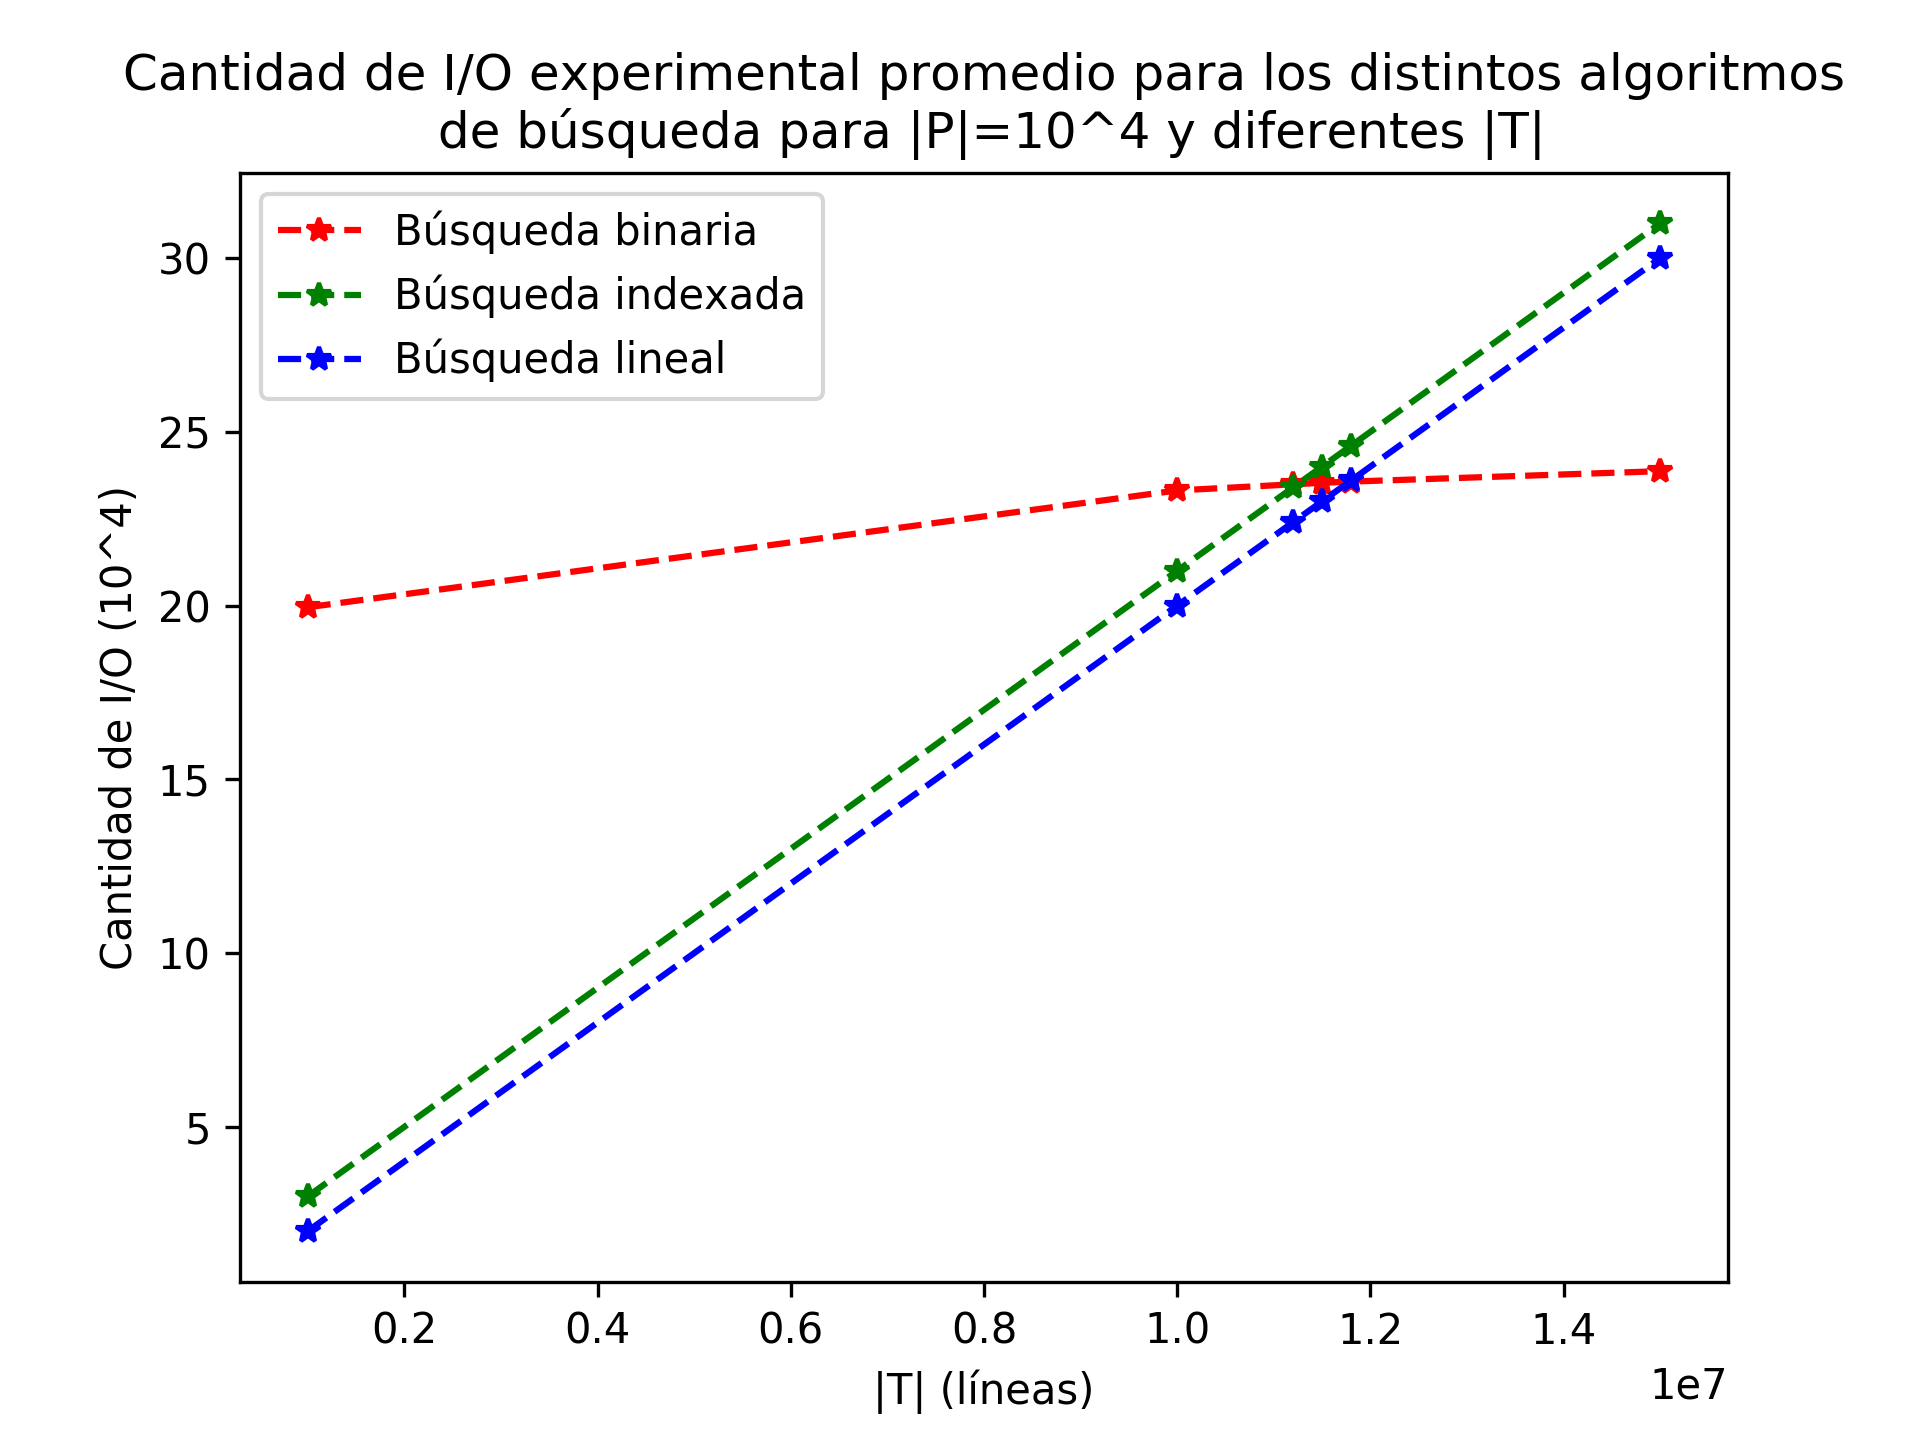
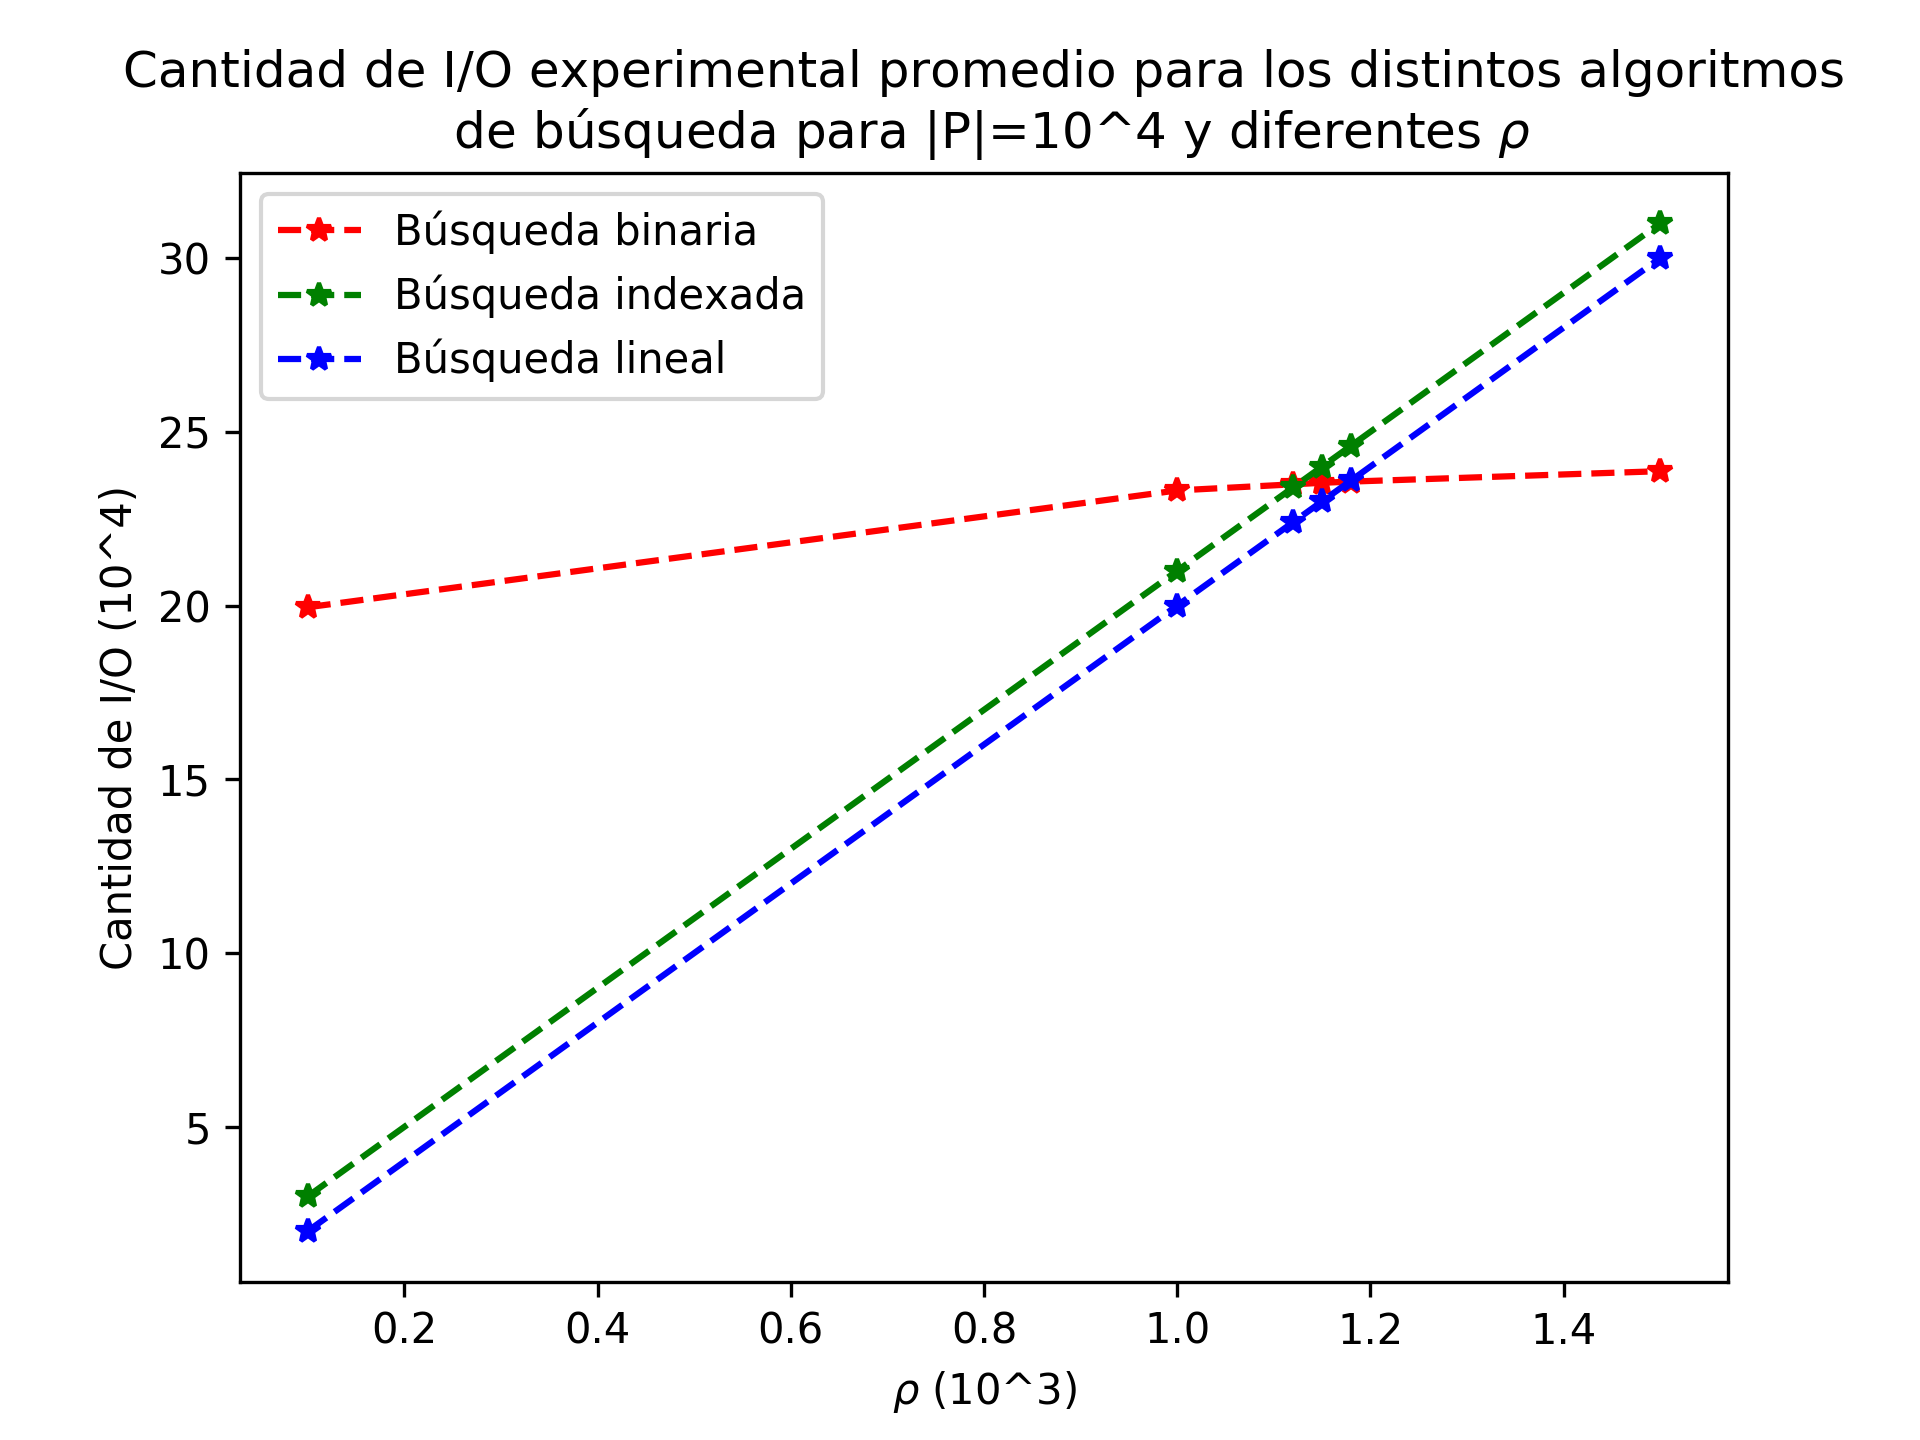
read pro

diff --git a/T1/experimentation/manage_theory_vs_real.py b/T1/experimentation/manage_theory_vs_real.py
@@ -98,23 +98,29 @@ for t in T_SIZE:
     y_linear_plus_merge_t.append(statistics.mean(current_linear_plus_merge_t))
     y_linear_plus_merge_t_std.append(statistics.stdev(current_linear_plus_merge_t))
 
-teo_range = range(T_SIZE[0], T_SIZE[len(T_SIZE) - 1])
+rho_list = []
+for t in T_SIZE:
+    rho_list.append(t//10**4 / 1000)
 
+teo_range = range(T_SIZE[0], T_SIZE[len(T_SIZE) - 1], 100)
 for t in teo_range:
     y_binary_io_t.append(o_bs_s_t(t)/div)
     y_indexed_io_t.append(o_bi_s_t(t)/div)
     y_linear_io_t.append(o_bl_s_t(t)/div)
 
+new_teo_range = []
+for t in teo_range:
+    new_teo_range.append(t/10**4 / 1000)
 plot_style_exp = '*'
 plot_style_t = '-'
-plt.plot(T_SIZE, y_binary_io, plot_style_exp, color='red', label="Búsqueda binaria experimental")
-plt.plot(T_SIZE, y_indexed_io, plot_style_exp, color='green', label="Búsqueda indexada experimental")
-plt.plot(T_SIZE, y_linear_io, plot_style_exp, color='blue', label="Búsqueda lineal experimental")
-plt.plot(teo_range, y_binary_io_t, plot_style_t, color='red', label="Búsqueda binaria teórica")
-plt.plot(teo_range, y_indexed_io_t, plot_style_t, color='green', label="Búsqueda indexada teórica")
-plt.plot(teo_range, y_linear_io_t, plot_style_t, color='blue', label="Búsqueda lineal teórica")
-plt.title("Cantidad de operaciones I/O experimentales y teóricas para\n los distintos algoritmos de búsqueda")
-plt.xlabel("|T| (cantidad de líneas)")
+plt.plot(rho_list, y_binary_io, plot_style_exp, color='red', label="Búsqueda binaria experimental")
+plt.plot(rho_list, y_indexed_io, plot_style_exp, color='green', label="Búsqueda indexada experimental")
+plt.plot(rho_list, y_linear_io, plot_style_exp, color='blue', label="Búsqueda lineal experimental")
+plt.plot(new_teo_range, y_binary_io_t, plot_style_t, color='red', label="Búsqueda binaria teórica")
+plt.plot(new_teo_range, y_indexed_io_t, plot_style_t, color='green', label="Búsqueda indexada teórica")
+plt.plot(new_teo_range, y_linear_io_t, plot_style_t, color='blue', label="Búsqueda lineal teórica")
+plt.title("Cantidad de operaciones I/O experimentales y teóricas para\n los distintos algoritmos de búsqueda para |P|=10^4 y diferentes $\\rho$")
+plt.xlabel("$\\rho$ (10^3)")
 plt.ylabel("Cantidad de operaciones I/O (10^4)")
 plt.legend()
 plt.savefig("visualizations/teo_vs_exp.png", dpi=300)

diff --git a/T1/experimentation/manage_linear_variation.py b/T1/experimentation/manage_linear_variation.py
@@ -93,13 +93,15 @@ for t in T_SIZE:
     y_linear_plus_merge_t.append(statistics.mean(current_linear_plus_merge_t))
     y_linear_plus_merge_t_std.append(statistics.stdev(current_linear_plus_merge_t))
 
-
+rho_list = []
+for t in T_SIZE:
+    rho_list.append(t//10**4 / 1000)
 plot_style = '--*'
-plt.plot(T_SIZE, y_linear_t, plot_style, color='red', label="Búsqueda lineal")
-plt.plot(T_SIZE, y_linear_plus_binary_t, plot_style, color='green', label="Búsqueda lineal con búsqueda binaria")
-plt.plot(T_SIZE, y_linear_plus_merge_t, plot_style, color='blue', label="Búsqueda lineal con merge")
-plt.title("Duración experimental promedio para las modificaciones de la\n búsqueda lineal en cada ejecución para |P|=10^4 y diferentes |T|")
-plt.xlabel("|T| (líneas)")
+plt.plot(rho_list, y_linear_t, plot_style, color='red', label="Búsqueda lineal")
+plt.plot(rho_list, y_linear_plus_binary_t, plot_style, color='green', label="Búsqueda lineal con búsqueda binaria")
+plt.plot(rho_list, y_linear_plus_merge_t, plot_style, color='blue', label="Búsqueda lineal con merge")
+plt.title("Duración experimental promedio para las modificaciones de la\n búsqueda lineal en cada ejecución para |P|=10^4 y diferentes $\\rho$")
+plt.xlabel("$\\rho$ (10^3)")
 plt.ylabel("Tiempo (s)")
 plt.legend()
 plt.savefig('visualizations/linear_variation.png', dpi=300)

diff --git a/T1/experimentation/manage_exp_t.py b/T1/experimentation/manage_exp_t.py
@@ -92,13 +92,15 @@ for t in T_SIZE:
     y_linear_plus_merge_io_std.append(statistics.stdev(current_linear_plus_merge_io))
     y_linear_plus_merge_t.append(statistics.mean(current_linear_plus_merge_t))
     y_linear_plus_merge_t_std.append(statistics.stdev(current_linear_plus_merge_t))
-
+rho_list = []
+for t in T_SIZE:
+    rho_list.append(t//10**4 / 1000)
 plot_style = '--*'
-plt.plot(T_SIZE, y_binary_t, plot_style, color='red', label="Búsqueda binaria")
-plt.plot(T_SIZE, y_indexed_t, plot_style, color='green', label="Búsqueda indexada")
-plt.plot(T_SIZE, y_linear_t, plot_style, color='blue', label="Búsqueda lineal")
-plt.title("Duración experimental promedio para los distintos algoritmos\n de búsqueda para |P|=10^4 y diferentes |T|")
-plt.xlabel("|T| (líneas)")
+plt.plot(rho_list, y_binary_t, plot_style, color='red', label="Búsqueda binaria")
+plt.plot(rho_list, y_indexed_t, plot_style, color='green', label="Búsqueda indexada")
+plt.plot(rho_list, y_linear_t, plot_style, color='blue', label="Búsqueda lineal")
+plt.title("Duración experimental promedio para los distintos algoritmos\n de búsqueda para |P|=10^4 y diferentes $\\rho$")
+plt.xlabel("$\\rho$ (10^3)")
 plt.ylabel("Tiempo en segundos (escala logarítmica)")
 plt.yscale("log")
 plt.legend()

diff --git a/T1/experimentation/manage_exp_t2.py b/T1/experimentation/manage_exp_t2.py
@@ -93,19 +93,17 @@ for t in T_SIZE:
     y_linear_plus_merge_t.append(statistics.mean(current_linear_plus_merge_t))
     y_linear_plus_merge_t_std.append(statistics.stdev(current_linear_plus_merge_t))
 
-
 rho_list = []
 for t in T_SIZE:
     rho_list.append(t//10**4 / 1000)
 plot_style = '--*'
 plt.plot(rho_list, y_binary_t, plot_style, color='red', label="Búsqueda binaria")
 plt.plot(rho_list, y_indexed_t, plot_style, color='green', label="Búsqueda indexada")
-plt.plot(rho_list, y_linear_plus_binary_t, plot_style, color='blue', label="Búsqueda lineal con búsqueda binaria")
-plt.title("Duración experimental promedio de la mejor búsqueda lineal encontrada\n contrastada con los otros algoritmos para |P|=10^4 y diferentes $\\rho$")
-plt.xlabel("Valor de $\\rho$ (10^3)")
-plt.ylabel("Tiempo (s)")
+plt.plot(rho_list, y_linear_t, plot_style, color='blue', label="Búsqueda lineal")
+plt.title("Duración experimental promedio para los distintos algoritmos\n de búsqueda para $\\rho$=|T|/|P|")
+plt.xlabel("$\\rho$ (10^3)")
+plt.ylabel("Tiempo en segundos (escala logarítmica)")
+plt.yscale("log")
 plt.legend()
-plt.savefig("visualizations/mejor_lineal_vs_otros.png", dpi=300)
+#plt.savefig('visualizations/exp_t2.png', dpi=300)
 plt.show()
-
-

diff --git a/T1/experimentation/manage_exp_io.py b/T1/experimentation/manage_exp_io.py
@@ -93,12 +93,15 @@ for t in T_SIZE:
     y_linear_plus_merge_t.append(statistics.mean(current_linear_plus_merge_t))
     y_linear_plus_merge_t_std.append(statistics.stdev(current_linear_plus_merge_t))
 
+rho_list = []
+for t in T_SIZE:
+    rho_list.append(t//10**4 / 1000)
 plot_style = '--*'
-plt.plot(T_SIZE, y_binary_io, plot_style, color='red', label="Búsqueda binaria")
-plt.plot(T_SIZE, y_indexed_io, plot_style, color='green', label="Búsqueda indexada")
-plt.plot(T_SIZE, y_linear_io, plot_style, color='blue', label="Búsqueda lineal")
-plt.title("Cantidad de I/O experimental promedio para los distintos algoritmos\n de búsqueda para |P|=10^4 y diferentes |T|")
-plt.xlabel("|T| (líneas)")
+plt.plot(rho_list, y_binary_io, plot_style, color='red', label="Búsqueda binaria")
+plt.plot(rho_list, y_indexed_io, plot_style, color='green', label="Búsqueda indexada")
+plt.plot(rho_list, y_linear_io, plot_style, color='blue', label="Búsqueda lineal")
+plt.title("Cantidad de I/O experimental promedio para los distintos algoritmos\n de búsqueda para |P|=10^4 y diferentes $\\rho$")
+plt.xlabel("$\\rho$ (10^3)")
 plt.ylabel("Cantidad de I/O (10^4)")
 plt.legend()
 plt.savefig('visualizations/exp_io.png', dpi=300)

diff --git a/T1/experimentation/costo_secundaria.py b/T1/experimentation/costo_secundaria.py
@@ -41,21 +41,22 @@ y_bs = []
 y_bl = []
 y_bi = []
 
-div_x = 10000
-div_y = 100000
+xi = 3
+yi = 5
+div_x = 10**xi
+div_y = 10**yi
 for k in k_range:
-    x.append(k)
-    y_bs.append(o_bs_s(k))
-    y_bl.append(o_bl_s(k))
-    y_bi.append(o_bi_s(k))
-"""
+    x.append(k/div_x)
+    y_bs.append(o_bs_s(k)/div_y)
+    y_bl.append(o_bl_s(k)/div_y)
+    y_bi.append(o_bi_s(k)/div_y)
+
 plt.plot(x, y_bs, 'r', label='Búsqueda binaria') # plotting t, a separately 
 plt.plot(x, y_bl, 'g', label='Búsqueda lineal') # plotting t, a separately 
 plt.plot(x, y_bi, 'b', label='Búsqueda indexada') # plotting t, a separately 
 plt.title("Total de operaciones I/Os teórico en los diferentes algoritmos\n en función del valor $\\rho$=|T|/|P|")
-plt.xlabel("Valor de k")
-plt.ylabel("Número de operaciones I/O")
+plt.xlabel("Valor de $\\rho$ (10^{})".format(xi))
+plt.ylabel("Número de operaciones I/O (10^{})".format(yi))
 plt.legend() 
-plt.savefig("valor de $\\rho$")
+plt.savefig("visualizations/valor_rho.png", dpi=300)
 plt.show()
-"""

diff --git a/T1/experimentation/k_visualizer.py b/T1/experimentation/k_visualizer.py
@@ -12,18 +12,20 @@ io_std = []
 t_total = []
 t_mean = []
 t_std = []
+i = 3
+div = 10**i
 for k in k_range:
     current_dict = data[str(k)]
     io_total.append(current_dict["I/Os_sum"])
-    io_mean.append(current_dict["I/Os_mean"])
-    io_std.append(current_dict["I/Os_std"])
+    io_mean.append(current_dict["I/Os_mean"]/div)
+    io_std.append(current_dict["I/Os_std"]/div)
     t_total.append(current_dict["time_sum"])
     t_mean.append(current_dict["time_mean"])
     t_std.append(current_dict["time_std"])
 
 plt.errorbar(k_range, io_mean, io_std, fmt='o', color='black', ecolor='lightgray')
-plt.title("Cantidad de I/Os para los k experimentos de Búsqueda Binaria")
+plt.title("Cantidad de I/O para los k experimentos de búsqueda binaria")
 plt.xlabel("Cantidad k de repeticiones del experimento")
-plt.ylabel("Promedio I/Os")
+plt.ylabel("Promedio I/Os (10^{})".format(i))
 plt.savefig("visualizations/std_para_k")
 plt.show()

diff --git a/T1/README.md b/T1/README.md
@@ -3,3 +3,7 @@ Esta tarea solo funciona en linux, se esperaba funcionara en todos los SO, pero 
 Si bien el SO en el que fue desarrollada no es el mismo de Anakena, se puede correr y probar ahí.
 
 Hay un Makefile, pero se pide encarecidamente no traten de usarlo, puesto que no fue más que probado en un solo computador.
+
+Adicionalmente, el archivo generator.py que fue requerido, arroja los archivos a la carpeta input_files, sin embargo, se puede colocar algún P o T en la carpeta raíz del proyecto, valga decir, aquí o también se puede llamar de la siguiente forma:
+
+# python indexedSearch.py input_files/P.txt input_files/T.txt
